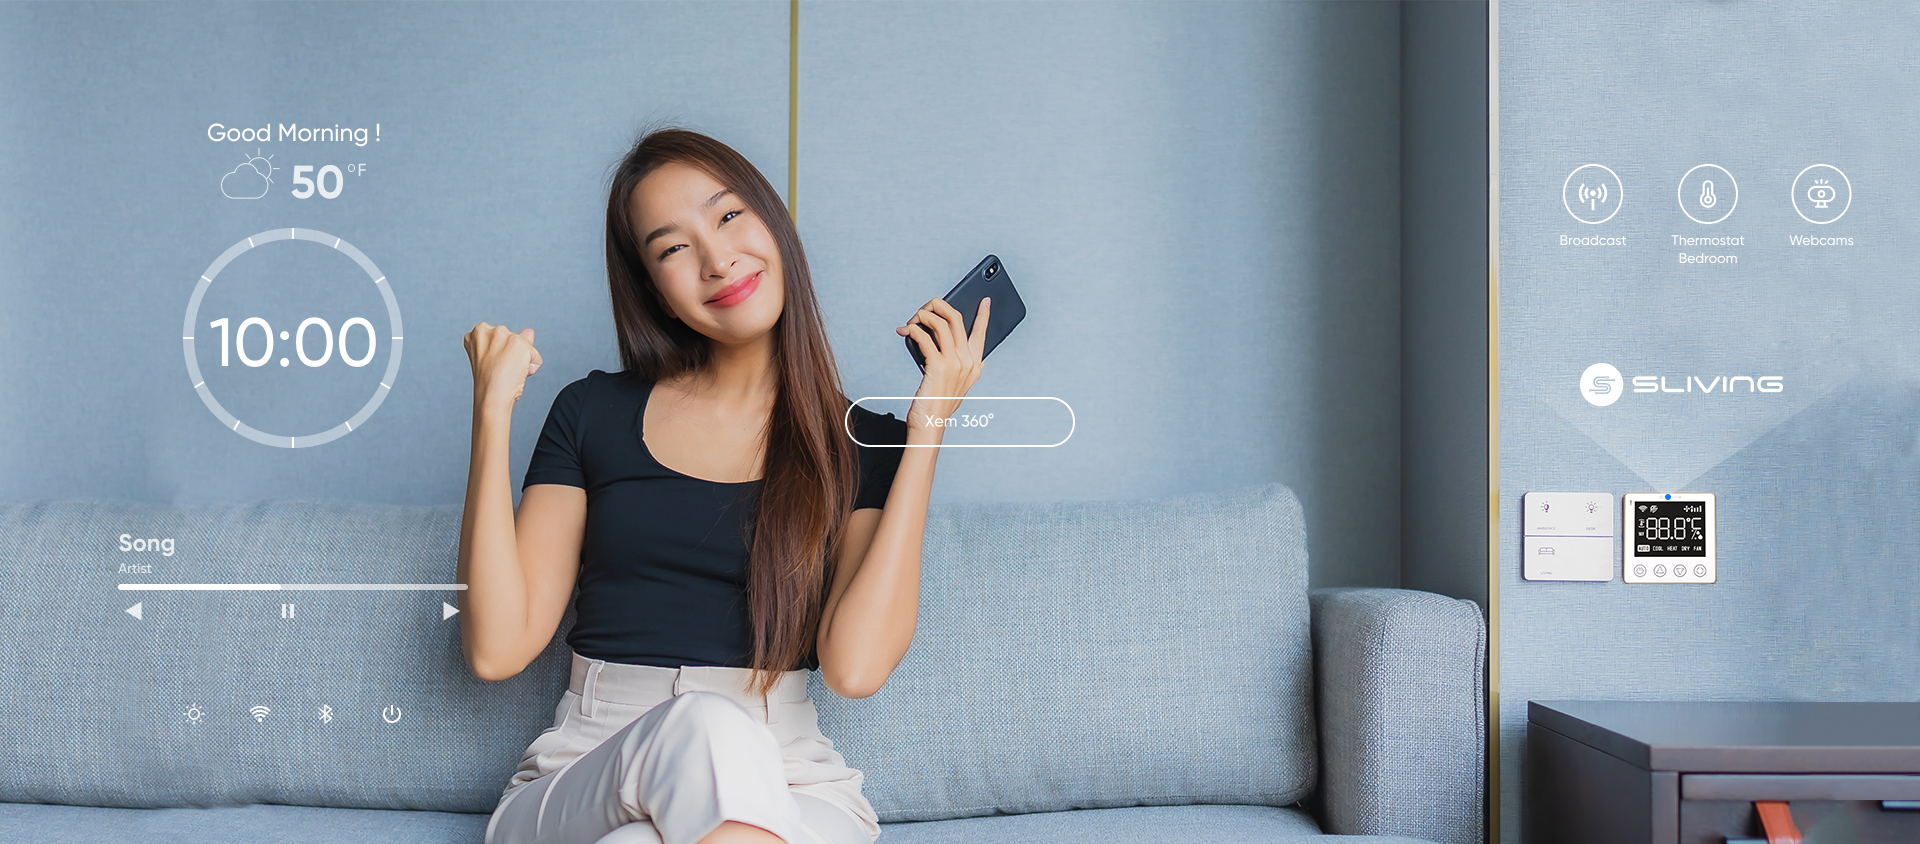
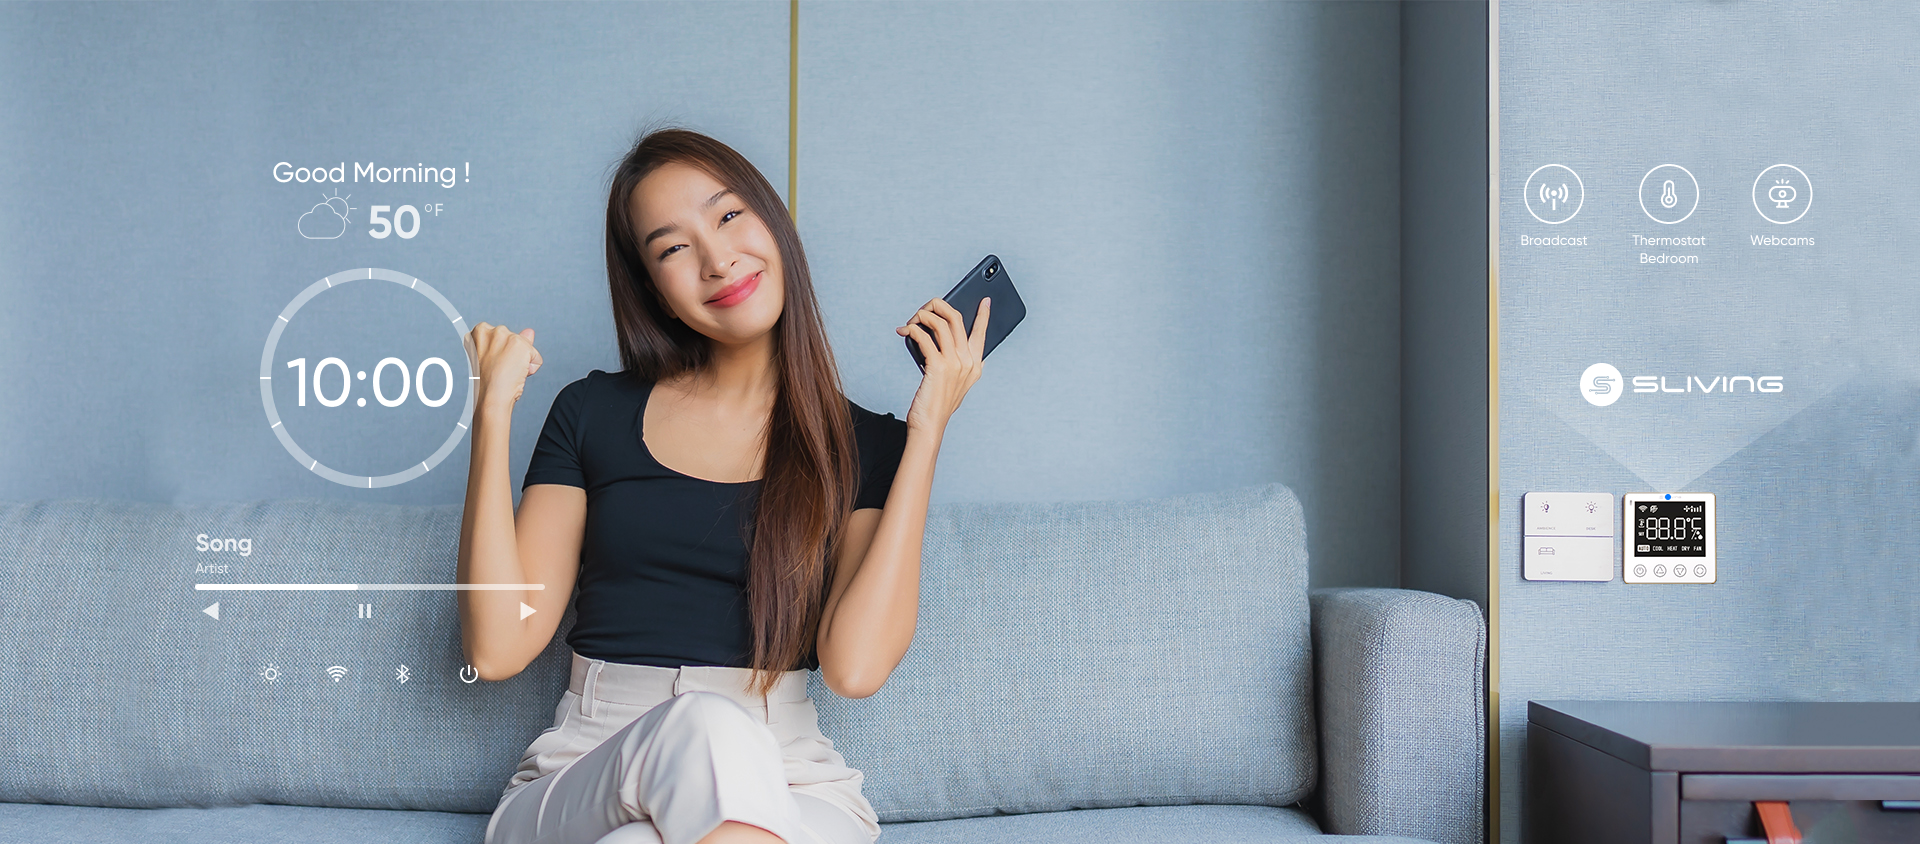
update responsive homepage

diff --git a/src/pages/home-page-v3/body/section-header.jsx b/src/pages/home-page-v3/body/section-header.jsx
@@ -4,6 +4,9 @@ import iconSettings from "@images/icon/icon-setting.svg";
 import iconSupport from "@images/icon/icon-support.svg";
 import imgBg from "@images/home-page-v3/bg-home-page.png";
 import imgBg2 from "@images/home-page-v3/bg-home-page2.png";
+import imgBgMobile from "@images/home-page-v3/bg-home-page-mobile.png";
+import imgBgMobile2 from "@images/home-page-v3/bg-home-page2-mobile.png";
+import iconEarth from "@images/home-page-v3/svg/icon-earth.svg";
 import React from "react";
 import { Col, Row } from "react-bootstrap";
 // Import Swiper React components
@@ -36,6 +39,14 @@ const SectionHeader = () => {
       icon: icon24Line,
     },
   ];
+  const imgBackground = [
+    { id: 0, imgUrl: imgBg },
+    { id: 1, imgUrl: imgBg2 },
+  ];
+  const imgBackgroundMobile = [
+    { id: 0, imgUrl: imgBgMobile },
+    { id: 1, imgUrl: imgBgMobile2 },
+  ];
 
   return (
     <header className="home-page-v3">
@@ -48,26 +59,55 @@ const SectionHeader = () => {
         }}
         navigation={true}
         modules={[Pagination, Navigation]}
-        className="mySwiper"
+        className="mySwiper slider-desktop"
       >
-        <SwiperSlide>
-          <div>
-            <img src={imgBg} alt="" className="bg-img" />
-          </div>
-        </SwiperSlide>
-        <SwiperSlide>
-          <div>
-            <img src={imgBg2} alt="" className="bg-img" />
-          </div>
-        </SwiperSlide>
+        {imgBackground.map((item) => (
+          <SwiperSlide key={item.id} className="back-ground-desktop">
+            <div className="view-360">
+              <button>
+                <span>
+                  Xem 360 <sup>0</sup>
+                </span>
+                <img src={iconEarth} alt="" />
+              </button>
+            </div>
+            <img src={item.imgUrl} alt="" className="bg-img" />
+          </SwiperSlide>
+        ))}
       </Swiper>
+      <Swiper
+        slidesPerView={1}
+        spaceBetween={30}
+        loop={true}
+        pagination={{
+          clickable: true,
+        }}
+        navigation={true}
+        modules={[Pagination, Navigation]}
+        className="mySwiper slider-mobile"
+      >
+        {imgBackgroundMobile.map((item) => (
+          <SwiperSlide key={item.id} className="back-ground-mobile d-none">
+            <div className="view-360">
+              <button>
+                <span>
+                  Xem 360 <sup>0</sup>
+                </span>
+                <img src={iconEarth} alt="" />
+              </button>
+            </div>
+            <img src={item.imgUrl} alt="" className="bg-img" />
+          </SwiperSlide>
+        ))}
+      </Swiper>
+
       <div className="home-page-tag">
         <div className="container-v3">
           <Row
             noGutters={true}
             className="d-flex justify-content-center align-items-center"
           >
-            <Col lg={3}>
+            <Col lg={3} className="gy-3">
               <div className="group-contact-header">
                 <img
                   src={iconPhone}
@@ -81,7 +121,7 @@ const SectionHeader = () => {
                 </div>
               </div>
             </Col>
-            <Col lg={9} noGutters={true}>
+            <Col lg={9} className="gy-3">
               <Row className="group-service-tag" md={3}>
                 {arrService.map((service) => (
                   <Col key={service.id} className="gx-4 card-sub-tag-col">

diff --git a/src/pages/home-page-v3/style.scss b/src/pages/home-page-v3/style.scss
@@ -287,7 +287,29 @@ span.detail-v3 {
   }
   // =======End Custom swiper=======
 }
-
+.mySwiper {
+  position: relative;
+  .view-360 {
+    position: absolute;
+    top: 50%;
+    left: 50%;
+    transform: translate(-50%, -50%);
+    button {
+      border-radius: 68px;
+      padding: 8px 24px;
+      background-color: transparent;
+      font-size: 12px;
+      color: #fff;
+      border: 2px solid #fff;
+      display: flex;
+      align-items: center;
+      justify-content: space-between;
+      span {
+        margin-right: 16px;
+      }
+    }
+  }
+}
 .bg-img {
   width: 100%;
 }
@@ -358,6 +380,17 @@ span.detail-v3 {
     // padding-top: 20px;
     padding-bottom: 20px;
   }
+  .home-page-v3 {
+    .back-ground-mobile,
+    .back-ground-mobile {
+      display: block !important;
+    }
+    .back-ground-desktop,
+    .slider-desktop {
+      display: none !important;
+    }
+  }
+
   .group-contact-header {
     justify-content: center;
     img {
@@ -406,12 +439,12 @@ span.detail-v3 {
 * 2.======================Begin Section Solution======================
 */
 .section-solution {
-  padding-top: 100px;
+  padding-top: 120px;
   background-color: #f2f6ff;
   ul {
     list-style-type: none;
     padding: 0;
-
+    padding-top: 16px;
     li {
       &::marker {
         display: none;
@@ -440,7 +473,7 @@ span.detail-v3 {
   }
 
   .section-solution-about {
-    padding-bottom: 50px;
+    padding-bottom: 40px;
   }
 
   .section-solution-sliving {
@@ -540,11 +573,12 @@ span.detail-v3 {
     .solution-about-img-mobile,
     .solution-about-cap {
       display: flex !important;
-      margin-top: 32px;
+      // padding-top: 32px;
       width: 100%;
     }
 
     .solution-about-cap {
+      margin-top: 32px;
       margin-bottom: 32px;
     }
 
@@ -559,7 +593,7 @@ span.detail-v3 {
     }
 
     .section-solution-sliving {
-      padding-top: 40px;
+      // padding-top: 40px;
       background-color: #ffffff !important;
       .solution-sliving-img {
         display: none;
@@ -580,7 +614,8 @@ span.detail-v3 {
 * 3.======================Begin Section Product======================
 */
 .section-product-v3 {
-  padding-top: 120px;
+  padding: 120px 0 60px;
+  background: #fff !important;
 }
 
 .card-product {

diff --git a/src/pages/home-page-v3/body/section-product.jsx b/src/pages/home-page-v3/body/section-product.jsx
@@ -2,7 +2,7 @@ import React from "react";
 import styled from "styled-components";
 import iconCheckOutline from "@images/icon/icon-check-circle-outline.svg";
 import imgCurtain from "@images/home-page-v3/img-curtain.png";
-import imgSwitch from "@images/home-page-v3/img-switch.png";
+import imgSwitch from "@images/home-page-v3/img-abc.png";
 import imgApp from "@images/home-page-v3/img-app.png";
 import imgTouch from "@images/home-page-v3/img-touch.png";
 import imgUnderLine from "@images/home-page-v3/svg/title-line-under.svg";
@@ -158,7 +158,12 @@ const SectionProduct = () => {
               } `}
             >
               <Col lg={7}>
-                <img src={smart.image} alt="" className="card-product-img" />
+                <img
+                  src={smart.image}
+                  alt=""
+                  className="card-product-img"
+                  style={{ float: `${smart.id % 2 === 0 ? "left" : "right"}` }}
+                />
               </Col>
               <Col lg={5}>
                 <h3 className="card-product-title">{smart.title}</h3>

diff --git a/src/pages/home-page-v3/body/section-smart-lighting.jsx b/src/pages/home-page-v3/body/section-smart-lighting.jsx
@@ -84,9 +84,9 @@ function SectionSmartLighting() {
             />
           </Col>
           <Col lg={5} md={12} className="">
-            <div className="smart-lighting-group">
+            <Row className="smart-lighting-group">
               {listItemCard.map((itemCard) => (
-                <div className="smart-lighting-card" key={itemCard.id}>
+                <Col className="smart-lighting-card" key={itemCard.id}>
                   <div className="smart-lighting-top">
                     <Image
                       src={itemCard.linkImg}
@@ -98,9 +98,9 @@ function SectionSmartLighting() {
                       {itemCard.title}
                     </span>
                   </div>
-                </div>
+                </Col>
               ))}
-            </div>
+            </Row>
             <Image
               src={imgSmartLightingRight}
               className="smart-lighting-img-right"

diff --git a/src/pages/contact-us-v3/index.jsx b/src/pages/contact-us-v3/index.jsx
@@ -1,0 +1,7 @@
+import React from "react";
+
+function IndexPage() {
+  return <div>IndexPage</div>;
+}
+
+export default IndexPage;
